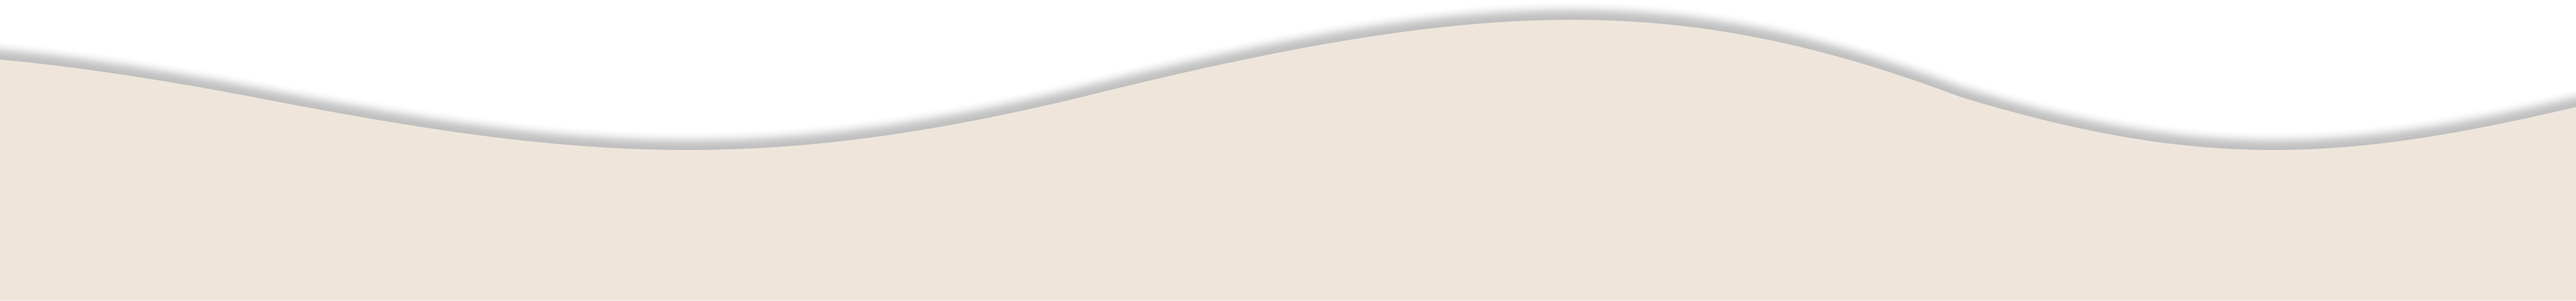
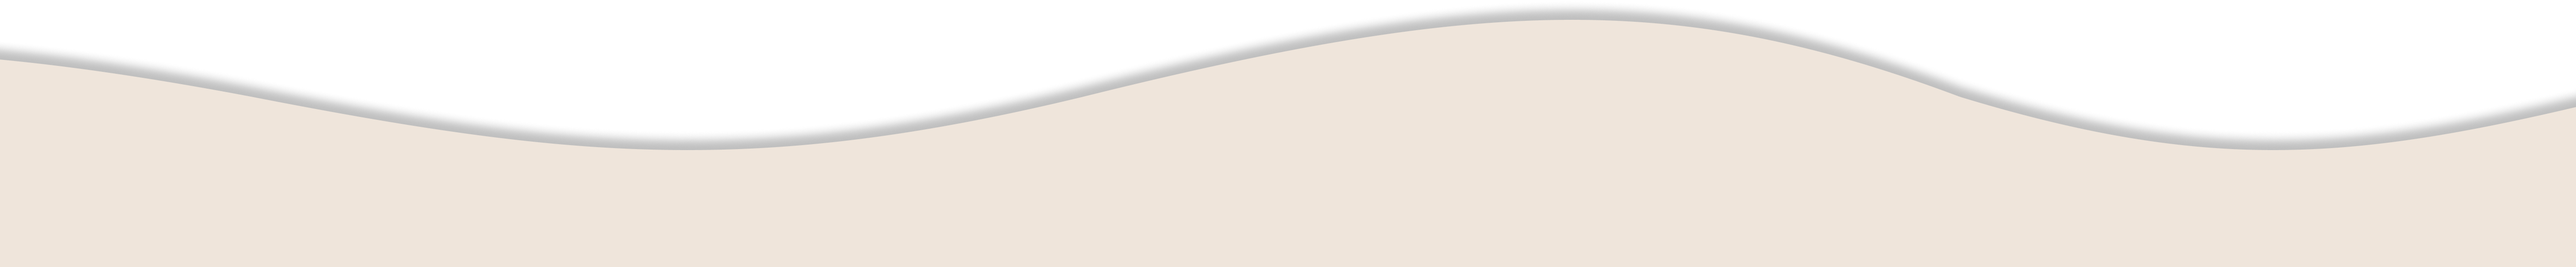
lavet index færdig til desktop

Changed region(s): [[0.0, 0.0891, 0.561, 0.564], [0.6545, 0.0891, 1.0, 0.564], [0.561, 0.0594, 0.6545, 0.0891]]

diff --git a/css/styles.scss b/css/styles.scss
@@ -476,6 +476,31 @@ $theme-colors: map-merge($theme-colors, $custom-colors);
 		margin-top: -100px;
 	}
 
+	.shape {
+		width: 285px;
+		height: 285px;
+
+		background-size: contain;
+		background-repeat: no-repeat;
+		background-position: center;
+	}
+
+	/* aktiviteter */
+	.shape-5 {
+		background-image: url("../shapes/picture-shape-creative.png");
+	}
+
+	/* om vedelsbo */
+	.shape-6 {
+		background-image: url("../shapes/picture-shape-alpacha.png");
+	}
+
+	/* arbejdsmetoder */
+	.shape-7 {
+		background-image: url("../shapes/picture-shape-outdoors.png");
+	}
+
+
 }
 
 @media only screen and (min-width: 1440px){

diff --git a/index.php b/index.php
@@ -603,22 +603,246 @@ require "settings/init.php";
 
 <!--green wavy wave - TABLET-->
 <div aria-hidden="true" class="d-none d-lg-block green-wavywave-frontpage" style="margin-top: -60px">
-    <img src="waves-tablet/beige-big-wave-upside-down.png" class="waves img-fluid  p-0 m-0" alt="">
+    <img src="waves-desktop/beige-normal-wave-upside-down.png" class="waves img-fluid  p-0 m-0" alt="">
 </div>
 
-<br>
-<br>
-<br>
-<br>
-<br>
-<br>
-<br>
-<br>
-<br>
-<br>
-<br>
-<br>
-<br>
+<!--hvad står vi for sektion - TABLET-->
+<div class="container  mt-3 mt-md-5 d-none d-lg-flex justify-content-center align-items-center">
+    <div class="row justify-content-center">
+
+        <div class="col-3 text-center mt-3 px-2">
+
+            <img src="shapes/light-green-shape-heart.png" alt="light-green-shape" class="mb-3" style="height: 100px">
+
+            <strong class="cormorant font-eightteen d-block mb-2 front-page-shape-header">
+                HVAD VI STÅR FOR
+            </strong>
+
+            <p class="inter font-fourteen text-start px-1">
+                På Vedelsbo skaber vi trygge og hjemlige rammer for mennesker med psykiske udfordringer. Vi bygger vores hverdag på omsorg, respekt, rummelighed og nærvær. Her er fællesskab, trivsel og livskvalitet i centrum.
+            </p>
+
+        </div>
+
+        <div class="col-3 text-center mt-3 px-2">
+
+            <img src="shapes/dark-brown-shape-people.png" alt="light-green-shape" class="mb-3" style="height: 100px">
+
+            <strong class="cormorant font-eightteen d-block mb-2 front-page-shape-header">
+                HVEM HJÆLPER VI
+            </strong>
+
+            <p class="inter font-fourteen text-start px-1">
+                Vi hjælper voksne med psykiske udfordringer og tilknytning til psykiatrien. Hos os mødes hver beboer med forståelse, støtte og individuelle løsninger. Målet er at skabe tryghed, struktur og udvikling i hverdagen.
+            </p>
+
+        </div>
+
+        <div class="col-3 text-center mt-3 px-2">
+
+            <img src="shapes/sage-green-shape-hand.png" alt="light-green-shape" class="mb-3" style="height: 100px">
+
+            <strong class="cormorant font-eightteen d-block mb-2 front-page-shape-header">
+                HVORDAN ARBEJDER VI
+            </strong>
+
+            <p class="inter font-fourteen text-start px-1">
+                Vi arbejder med en recovery-orienteret og individuel tilgang, hvor beboeren er i centrum. Gennem stabile relationer, struktur og faglig støtte hjælper vi den enkelte med at skabe trivsel, selvstændighed og udvikling.
+            </p>
+
+        </div>
+
+        <div class="col-3 text-center mt-3 px-2">
+
+            <img src="shapes/light-brown-shape-house.png" alt="light-green-shape" class="mb-3" style="height: 100px">
+
+            <strong class="cormorant font-eightteen d-block mb-2 front-page-shape-header">
+                VORES ORGANISATION
+            </strong>
+
+            <p class="inter font-fourteen text-start px-1">
+                Vedelsbo er et socialpsykiatrisk botilbud med et tværfagligt team af sundheds- og socialfaglige medarbejdere. Vi prioriterer faglighed, samarbejde og et trygt miljø for både beboere og personale. Med fokus på struktur og fælles trivsel i hverdagen.
+            </p>
+
+        </div>
+
+    </div>
+</div>
+
+<!--beige wave - DESKTOP-->
+<div aria-hidden="true" class="d-none d-lg-block bg-sage-green">
+    <img src="waves-desktop/beige-normal-wave.png" class="waves position-relative w-100" alt="">
+</div>
+
+<!--shapes-->
+<div class="container-fluid bg-sage-green d-none d-lg-block py-5">
+
+    <div class="row justify-content-center text-center">
+
+        <!--aktiviteter-->
+        <div class="col-4 d-flex justify-content-center">
+
+            <div class="shape shape-5 d-flex justify-content-center align-items-center">
+
+                <a href="borger-aktiviteter.php"
+                   class="font-twelve font-sixteen btn bg-off-white text-off-black rounded-pill border-0 py-2 px-3">
+                    Aktiviteter <i class="fa-solid fa-angle-right"></i>
+                </a>
+
+            </div>
+
+        </div>
+
+        <!--om vedelsbo-->
+        <div class="col-4 d-flex justify-content-center">
+
+            <div class="shape shape-6 d-flex justify-content-center align-items-center">
+
+                <a href="om-vedelsbo.php"
+                   class="font-twelve font-sixteen btn bg-off-white text-off-black rounded-pill border-0 py-2 px-3">
+                    Om Vedelsbo <i class="fa-solid fa-angle-right"></i>
+                </a>
+
+            </div>
+
+        </div>
+
+        <!--arbejdsmetoder-->
+        <div class="col-4 d-flex justify-content-center">
+
+            <div class="shape shape-7 d-flex justify-content-center align-items-center">
+
+                <a href="arbejdsmetoder-forside.php"
+                   class="font-twelve font-sixteen btn bg-off-white text-off-black rounded-pill border-0 py-2 px-3">
+                    Arbejdsmetoder <i class="fa-solid fa-angle-right"></i>
+                </a>
+
+            </div>
+
+        </div>
+
+    </div>
+
+</div>
+
+<!--beige wave - DESKTOP-->
+<div aria-hidden="true" class="d-none d-lg-block bg-background">
+    <img src="waves-desktop/normal-green-wave.png" class="waves position-relative w-100" alt="">
+</div>
+
+<!--citat + knap til "en boboers tanker" - TABLET-->
+<div class="container d-none d-lg-flex justify-content-center align-items-center pt-4 en-beboers-tanker-borger-forside mt-0">
+
+    <div class="row justify-content-center text-center w-100 mt-3">
+
+        <div class="col-12 col-md-10 col-lg-8">
+
+            <strong class="cormorant d-block mb-3 pt-3 en-beboers-tanker-borger-forside-text-italic">
+                “Den omsorg vi får gør hverdagen lys, den nærhed vi mærker gør hjertet varmt, livet blir levende og det
+                gør forskellen.”
+            </strong>
+
+            <p class="inter mb-4 en-beboers-tanker-borger-forside-text">
+                - Jette Bernt Rasmussen
+            </p>
+
+            <div>
+                <a href="en-beboers-tanker.php"
+                   class="font-twelve font-sixteen inter bg-dark-brown text-off-black rounded-pill border-0 py-2 px-3 d-inline-block text-decoration-none">
+                    En beboers tanker
+                    <i class="fa-solid fa-angle-right"></i>
+                </a>
+            </div>
+        </div>
+    </div>
+</div>
+
+<!--beige wave - DESKTOP-->
+<div aria-hidden="true" class="d-none d-lg-block bg-light-brown">
+    <img src="waves-desktop/beige-normal-wave.png" class="waves position-relative w-100" alt="">
+</div>
+
+<!--indsend spørgsmål sektion - DESKTOP-->
+<div class="bg-light-brown d-none d-lg-block">
+
+    <div class="container py-5">
+
+        <div class="row align-items-center">
+
+            <!--tekst-->
+            <div class="col-6">
+
+                <strong class="allura d-block header-text-allura-underpage fw-normal pb-2">
+                    Har du spørgsmål?
+                </strong>
+
+                <p class="font-sixteen inter pe-5 mb-0">
+                    Du er altid meget velkommen til at skrive os en mail eller ringe til os.
+                </p>
+
+            </div>
+
+            <!--formular-->
+            <div class="col-6">
+
+                <div class="row">
+                    <div class="col pb-3">
+                        <input type="text"
+                               class="form-control inter font-twelve bg-off-white"
+                               placeholder="Fornavn*"
+                               aria-label="Fornavn">
+                    </div>
+
+                    <div class="col pb-3">
+                        <input type="text"
+                               class="form-control inter font-twelve bg-off-white"
+                               placeholder="Efternavn*"
+                               aria-label="Efternavn">
+                    </div>
+                </div>
+
+                <div class="row">
+                    <div class="col pb-3">
+                        <input type="text"
+                               class="form-control inter font-twelve bg-off-white"
+                               placeholder="E-mail*"
+                               aria-label="E-mail">
+                    </div>
+                </div>
+
+                <div class="row">
+                    <div class="col pb-3">
+                        <textarea class="form-control inter font-twelve bg-off-white"
+                                  rows="4"
+                                  placeholder="Skriv din besked...*"
+                                  aria-label="Skriv din besked her"></textarea>
+                    </div>
+                </div>
+
+                <!--knap-->
+                <div class="pt-2 d-lg-flex justify-content-center align-items-center">
+
+                    <a href="tak-for-bidrag.php"
+                       class="font-sixteen inter bg-dark-brown text-off-black rounded-pill border-0 py-2 px-4 d-inline-block text-decoration-none">
+                        Send
+                        <i class="fa-solid fa-angle-right"></i>
+                    </a>
+
+                </div>
+
+            </div>
+
+        </div>
+
+    </div>
+
+</div>
+
+<!--bottom-wave - TABLET-->
+<div class="bg-dark-green d-none d-lg-block" aria-hidden="true" style="margin-top: -2px">
+    <img src="waves-desktop/normal-light-brown-wave.png" class="waves img-fluid wave-minus-two-px p-0 m-0" style="z-index: 100;" alt="" >
+</div>
+
 
 <?php include 'includes/footer.php'; ?>
 
